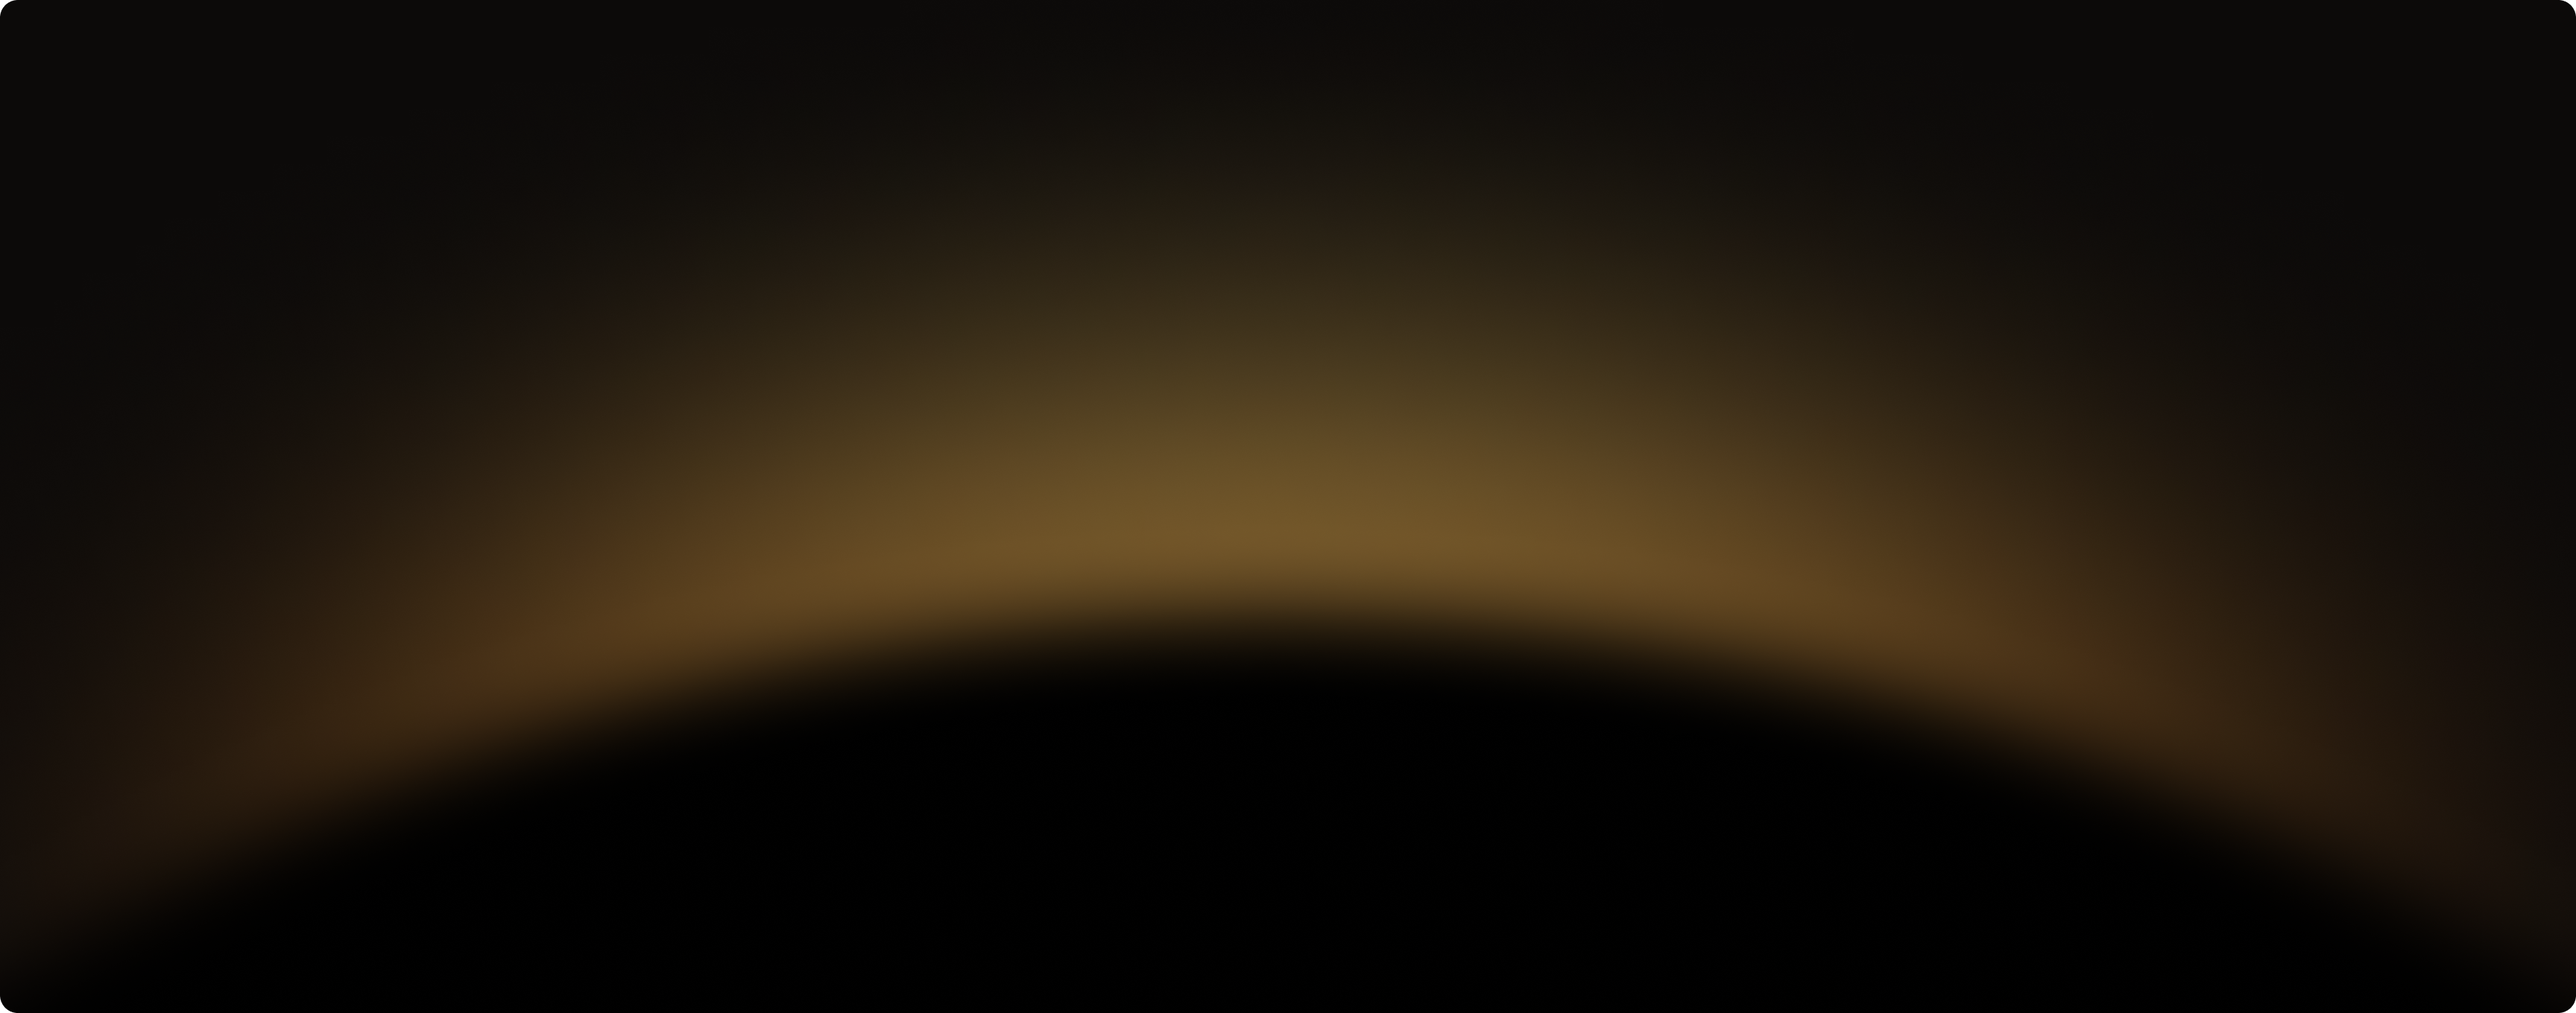
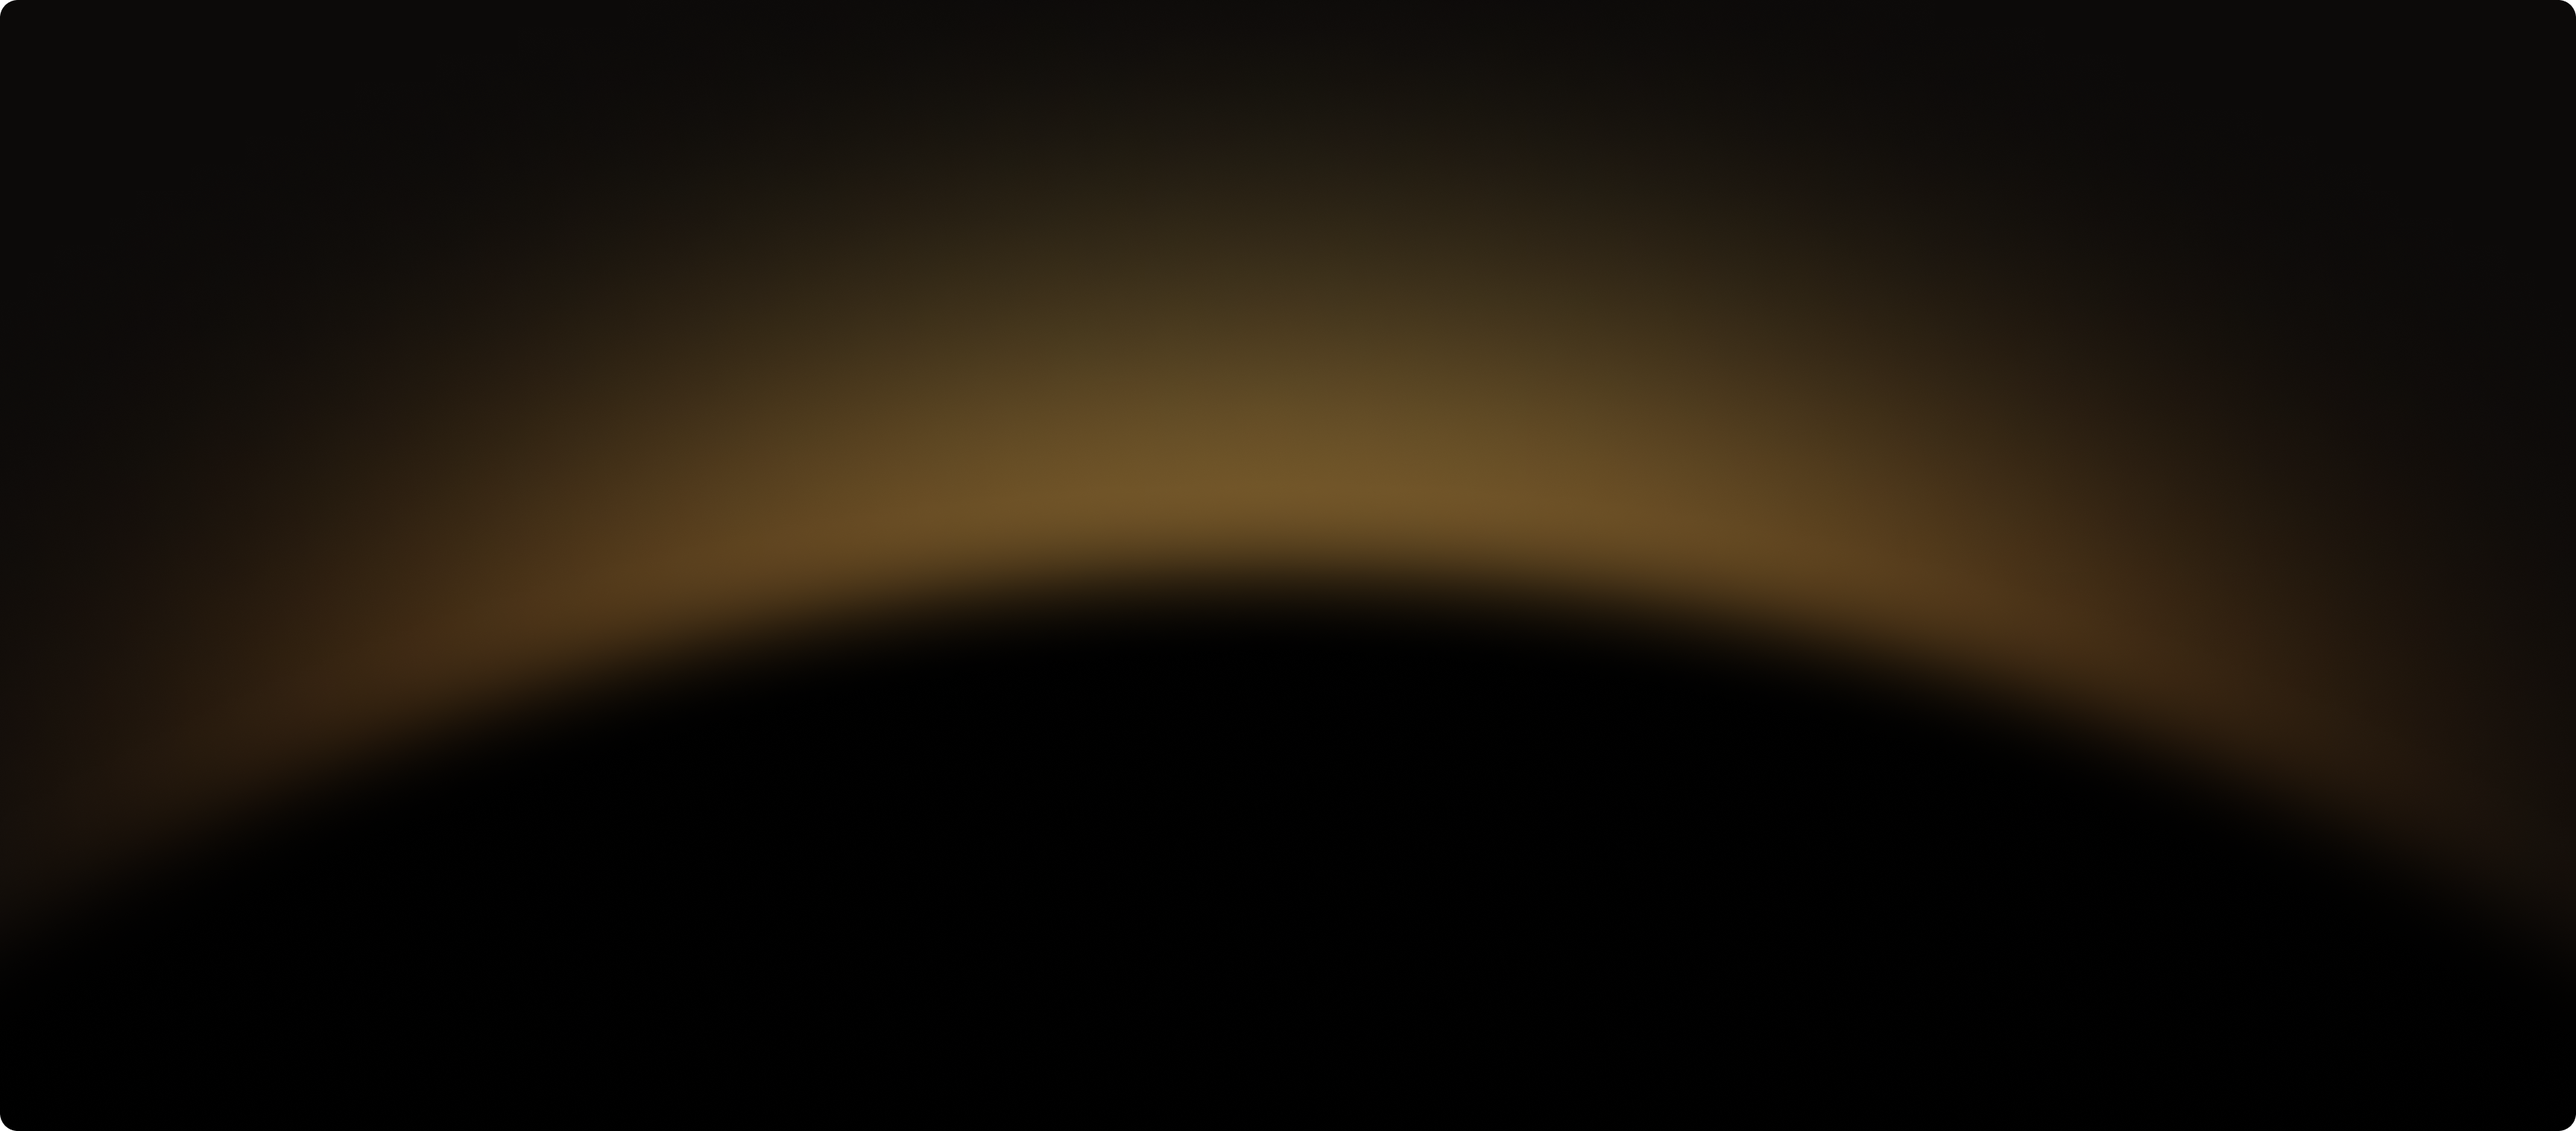
optimize image

Changed region(s): [[0.0, 0.4632, 0.9688, 0.8647], [0.375, 0.3397, 0.5938, 0.4015]]

diff --git a/src/components/Button/SwiperButton/index.tsx b/src/components/Button/SwiperButton/index.tsx
@@ -1,14 +1,14 @@
 function SwiperButton({ onClickPrev, onClickNext }: any) {
     return (
         <div className="flex gap-6 items-center">
-            <button id="btn-swiper-prev" className="bg-dark-charcoal rounded-full w-14 h-14 flex justify-center items-center" onClick={onClickPrev}>
+            <button id="btn-swiper-prev" aria-label="Swiper Prev" aria-labelledby="aura-blogs" className="bg-dark-charcoal rounded-full w-14 h-14 flex justify-center items-center" onClick={onClickPrev}>
                 <svg width="25" height="24" viewBox="0 0 25 24" fill="none" xmlns="http://www.w3.org/2000/svg">
                     <path d="M19.5 12H5.5" stroke="white" stroke-width="2" stroke-linecap="round" stroke-linejoin="round" />
                     <path d="M12.5 5L5.5 12L12.5 19" stroke="white" stroke-width="2" stroke-linecap="round" stroke-linejoin="round" />
                 </svg>
             </button>
 
-            <button id="btn-swiper-next" className="bg-dark-charcoal rounded-full w-14 h-14 flex justify-center items-center" onClick={onClickNext}>
+            <button id="btn-swiper-next" aria-label="Swiper Next" aria-labelledby="aura-blogs" className="bg-dark-charcoal rounded-full w-14 h-14 flex justify-center items-center" onClick={onClickNext}>
                 <svg width="25" height="24" viewBox="0 0 25 24" fill="none" xmlns="http://www.w3.org/2000/svg">
                     <path d="M5.5 12H19.5" stroke="white" stroke-width="2" stroke-linecap="round" stroke-linejoin="round" />
                     <path d="M12.5 5L19.5 12L12.5 19" stroke="white" stroke-width="2" stroke-linecap="round" stroke-linejoin="round" />

diff --git a/src/app/build/page.tsx b/src/app/build/page.tsx
@@ -63,7 +63,7 @@ function Build() {
                         ))}
                     </div>
 
-                    <div className="pt-14 pb-8 px-6 xl:pt-[100px] xl:pb-[160px] xl:px-[200px] bg-[url('../assets/images/img_bg_gradient_mask.png')] bg-cover bg-no-repeat w-screen xl:w-full flex flex-col gap-6 items-center lg:rounded-[40px]">
+                    <div className="pt-14 pb-8 px-6 xl:pt-[100px] xl:pb-[160px] xl:px-[200px] bg-[url('../assets/images/img_bg_gradient_mask.webp')] bg-cover bg-no-repeat w-screen xl:w-full flex flex-col gap-6 items-center lg:rounded-[40px]">
                         <div className="flex flex-col gap-4 items-center">
                             <div className="bg-[rgba(255,255,255,0.15)] border border-solid border-[rgba(255,255,255,0.20)] py-3 px-5 h-11 text-center rounded-full flex items-center">
                                 <div className="font-semibold">Aura's Ecosystem</div>

diff --git a/src/sections/ecosystem/index.tsx b/src/sections/ecosystem/index.tsx
@@ -29,7 +29,7 @@ const ecosystemData = [{
 
 function Ecosystem() {
     return (
-        <div className="pt-14 pb-8 xl:py-24 bg-[url('../assets/images/img_bg_gradient_mask.png')] bg-cover bg-no-repeat w-screen flex flex-col gap-6 items-center lg:rounded-3xl lg:w-[96vw] min-[2560px]:w-[80vw]">
+        <div className="pt-14 pb-8 xl:py-24 bg-[url('../assets/images/img_bg_gradient_mask.webp')] bg-cover bg-no-repeat w-screen flex flex-col gap-6 items-center lg:rounded-3xl lg:w-[96vw] min-[2560px]:w-[80vw]">
             <div className="flex flex-col gap-4 items-center">
                 <div className="bg-[rgba(255,255,255,0.15)] border border-solid border-[rgba(255,255,255,0.20)] py-3 px-5 h-11 text-center rounded-full flex items-center">
                     <div className="font-semibold">Aura's Ecosystem</div>

diff --git a/src/sections/blogs/index.tsx b/src/sections/blogs/index.tsx
@@ -9,7 +9,7 @@ function Blogs() {
         <div className="flex flex-col gap-8 items-center xl:mt-10 xl:w-full">
             <div className="flex w-full justify-center lg:px-6 xl:px-0">
                 <div className="flex flex-col gap-4 items-center px-10 lg:px-0 lg:w-full lg:items-start">
-                    <span className="text-light-yellow font-normal text-center xl:text-start xl:text-xl">Aura's Blog</span>
+                    <span id="aura-blogs" className="text-light-yellow font-normal text-center xl:text-start xl:text-xl">Aura's Blog</span>
                     <span className="text-white text-center font-ppmori-semibold text-[28px] font-semibold leading-9">Discover the future of Web3</span>
                 </div>
                 <div className="hidden lg:flex">

diff --git a/src/app/globals.css b/src/app/globals.css
@@ -192,7 +192,7 @@ body {
 }
 
 .statistic-card:hover {
-  background: url("../assets/images/mask.png"), #221F1C;
+  background: url("../assets/images/img_mask.webp"), #221F1C;
   background-size: cover;
   background-repeat: no-repeat;
   border: 1px solid #FD9552;
